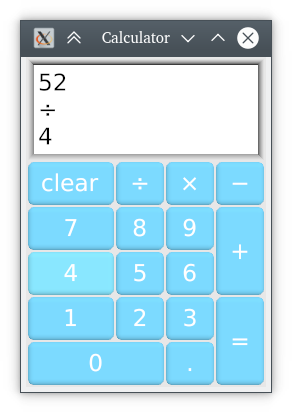
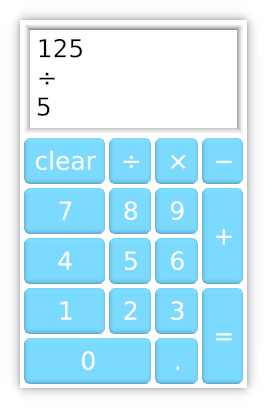
Update calculator font size and two screenshots

Changed region(s): [[0.0599, 0.0294, 0.9588, 0.9706]]

diff --git a/kas-wgpu/examples/calculator.rs b/kas-wgpu/examples/calculator.rs
@@ -99,7 +99,7 @@ fn main() -> Result<(), kas_wgpu::Error> {
     let window = Window::new("Calculator", content);
 
     let mut theme = kas_theme::ShadedTheme::new();
-    theme.set_font_size(24.0);
+    theme.set_font_size(16.0);
     let mut toolkit = kas_wgpu::Toolkit::new(theme)?;
     toolkit.add(window)?;
     toolkit.run()
